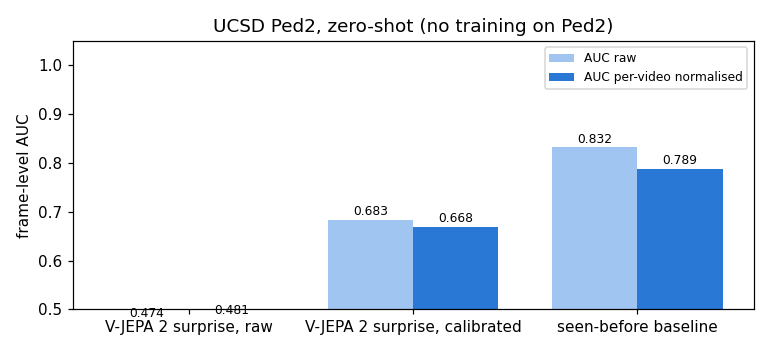
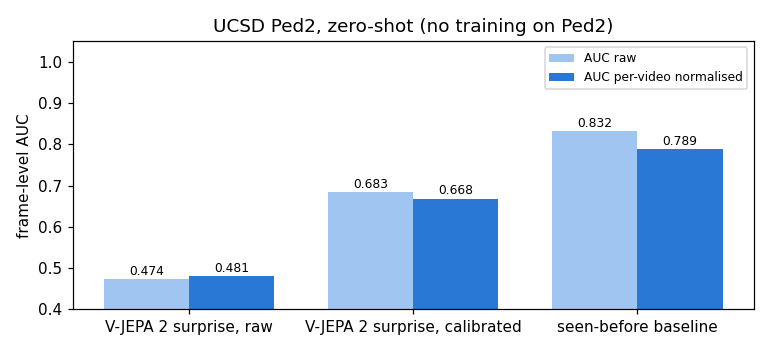
fix: correct experiment 06 figures and claims to match the data

diff --git a/06_vjepa2_video/vjepa2_anomaly.py b/06_vjepa2_video/vjepa2_anomaly.py
@@ -28,6 +28,7 @@
 # ![architecture](https://raw.githubusercontent.com/nunenuh/jepa-playground/main/06_vjepa2_video/assets/architecture-light.svg)
 
 # %%
+import json
 import tarfile
 import time
 import urllib.request
@@ -246,8 +247,10 @@ ax.set_title(f"Test video {name}: score over time")
 plt.tight_layout(); plt.savefig(OUT / "timeline.png", dpi=110); plt.show()
 
 # %%
-picks = [int(np.argmin(np.where(y, np.inf, scores["V-JEPA 2 surprise, calibrated"][name]))),
-         int(np.argmax(np.where(y, scores["V-JEPA 2 surprise, calibrated"][name], -np.inf)))]
+inner = np.zeros(len(y), dtype=bool)
+inner[T:len(y) - T] = True                                    # frames that were really predicted (not edge copies)
+cal = scores["V-JEPA 2 surprise, calibrated"][name]
+picks = [int(np.argmin(np.where(~y & inner, cal, np.inf))), int(np.argmax(np.where(y & inner, cal, -np.inf)))]
 vmax = float(maps["V-JEPA 2 surprise, calibrated"][name][picks].max())
 fig, axes = plt.subplots(1, 2, figsize=(10, 3.6))
 for ax, i, title in zip(axes, picks, ["normal frame", "anomalous frame"]):
@@ -289,17 +292,30 @@ raw_ex = maps["V-JEPA 2 surprise, raw"]["04"][picks[1]]
 cal_ex = maps["V-JEPA 2 surprise, calibrated"]["04"][picks[1]]
 sb_ex  = maps["seen-before baseline"]["04"][picks[1]]
 fig, axes = plt.subplots(1, 4, figsize=(11.5, 3.1))
+auc_top5 = {m: results[m]["AUC raw"] for m in results}
 for ax, m_img, title in [
-    (axes[0], MU.detach().cpu(), "Normal mean surprise μ\n(trees/edges always noisy)"),
-    (axes[1], raw_ex, f"Raw surprise (frame {picks[1]})\nAUC 0.474 (drowned by background)"),
-    (axes[2], cal_ex, f"Calibrated (s − μ)/σ (frame {picks[1]})\nAUC 0.683 (spots the cyclist)"),
-    (axes[3], sb_ex,  f"Seen-before baseline (frame {picks[1]})\nAUC 0.832 (nearest normal patch)"),
+    (axes[0], MU.detach().cpu(), "usual surprise μ on normal video"),
+    (axes[1], raw_ex, f"raw surprise (frame {picks[1]})\ntop-5 AUC {auc_top5['V-JEPA 2 surprise, raw']:.3f}"),
+    (axes[2], cal_ex, f"calibrated (s − μ)/σ (frame {picks[1]})\ntop-5 AUC {auc_top5['V-JEPA 2 surprise, calibrated']:.3f}"),
+    (axes[3], sb_ex,  f"seen-before (frame {picks[1]})\ntop-5 AUC {auc_top5['seen-before baseline']:.3f}"),
 ]:
     ax.imshow(frames[picks[1]])
     heat = F.interpolate(m_img.float()[None, None], size=frames.shape[1:3], mode="bilinear")[0, 0]
     ax.imshow(heat, cmap="inferno", alpha=0.55)
     ax.set_title(title, fontsize=8.5); ax.axis("off")
 plt.tight_layout(); plt.savefig(OUT / "calibration.png", dpi=110); plt.show()
+
+# How often do the raw top-5 patches sit on the positions that are noisiest on *normal* video?
+noisy = set(MU.flatten().topk(20).indices.tolist())           # 20 of 256 positions = 7.8% of the frame
+hits = [len(set(m.flatten().topk(5).indices.tolist()) & noisy) / 5
+        for n in test_videos for m in maps["V-JEPA 2 surprise, raw"][n]]
+cal_hits = [len(set(m.flatten().topk(5).indices.tolist()) & noisy) / 5
+            for n in test_videos for m in maps["V-JEPA 2 surprise, calibrated"][n]]
+noisy_share = {"raw": float(np.mean(hits)), "calibrated": float(np.mean(cal_hits)), "chance": 20 / 256}
+print(f"top-5 patches on the 20 noisiest normal positions: raw {noisy_share['raw']:.0%}, "
+      f"calibrated {noisy_share['calibrated']:.0%} (chance {noisy_share['chance']:.0%})")
+(OUT / "results.json").write_text(json.dumps({"metrics": results, "noisy_position_share": noisy_share,
+                                              "heatmap_frames_video_04": picks}, indent=1))
 
 # %% [markdown]
 # ## Part 2: adapt the predictor to this camera

diff --git a/06_vjepa2_video/README.md b/06_vjepa2_video/README.md
@@ -35,7 +35,7 @@ first **12 frames** (`6 × 16 × 16` latents) and ask it to predict the last
 
 | Part | What it is |
 |---|---|
-| Backbone | `facebook/vjepa2-vitl-fpc64-256` (ViT-L encoder + predictor, frozen, `fp16`) |
+| Backbone | `facebook/vjepa2-vitl-fpc64-256` (ViT-L encoder + predictor, frozen, `fp16`; Part 2 fine-tunes the predictor) |
 | Sliding window | 12 past frames → predict 4 future frames, stride 2 frames |
 | Frame score | Mean of the **top-5 most surprising patches** in the `16 × 16` spatial grid (anomalies cover only a few patches; whole-frame mean washes them out on calibrated maps) |
 | **V-JEPA 2 surprise, raw** | Raw L1 distance between predicted and layer-normed target latents |
@@ -43,7 +43,7 @@ first **12 frames** (`6 × 16 × 16` latents) and ask it to predict the last
 | **Seen-before baseline** | No predictor: cosine distance to the closest normal training latent at the **same spatial position** (588 training tubelets) |
 
 Hardware: Colab Tesla T4 (16 GB VRAM). Memory bank + calibration stats: **78 s**;
-scoring all 12 test videos: **246 s** (~5.5 min total).
+scoring all 12 test videos: **246 s** (~5.5 min for Part 1; Part 2 adds ~10 min).
 
 ## Results
 
@@ -55,33 +55,46 @@ scoring all 12 test videos: **246 s** (~5.5 min total).
 
 ![auc](assets/auc.png)
 
-### Why raw top-5 surprise fails (and calibration fixes it)
+### Why raw top-5 surprise fails (and calibration helps)
 
-At first, taking the top-5 raw surprise patches scored near chance (**0.474 AUC**),
-even though averaging the whole frame gave **0.767 AUC**. Why? In a static camera
-scene, flickering tree leaves and walkway borders are *always* harder to predict
-than flat pavement—so the top-5 patches in every frame were just the trees,
-drowning out the bicycle.
+Taking the top-5 raw surprise patches scored below chance (**0.474 AUC**),
+although averaging the whole frame gave **0.767**. Some positions are hard to
+predict even on normal video (the usual-surprise map μ is highest along the
+grass/hedge strip and some pavement edges), and the top-5 often land there:
+**33%** of the raw top-5 patches fall on the 20 positions (8% of the frame)
+that are noisiest on normal video, 4× more than chance.
 
-Normalising each `16 × 16` cell by its usual surprise `(s − μ) / σ` on normal
-training video silences the background clutter and jumps top-5 AUC from
-**0.474 → 0.683**:
+Normalising each `16 × 16` cell by its usual surprise, `(s − μ) / σ` on
+normal training video, removes that: only **3%** of the calibrated top-5
+patches land there, and top-5 AUC rises from **0.474 → 0.683**. The noisy
+positions explain part of the failure, not all of it: calibrated surprise is
+still far below seen-before.
 
 ![calibration](assets/calibration.png)
 
-### Where V-JEPA 2 is surprised
+Frame 72 of test video `04`, where a cart drives in. Left to right: the
+usual surprise μ, raw surprise, calibrated surprise and the seen-before
+distance. Seen-before marks the cart clearly; calibrated surprise is high
+next to and below it, but also at scattered pavement spots.
 
-On test video `04`, calibrated V-JEPA 2 surprise lights up directly on the
-speeding cyclist while staying dark on normal walking pedestrians:
+### Where V-JEPA 2 is surprised
 
 ![heatmap](assets/heatmap.png)
 
+Calibrated surprise on the least surprising normal frame and the most
+surprising anomalous frame of video `04` (both taken from the middle of the
+video, where every frame was really predicted). On the anomalous frame the
+strongest response is around the cart's lower edge and on the pavement in
+front of it; there are also weaker spots on people walking normally.
+
 ### Score over time
 
-Both calibrated predictor surprise and the seen-before memory bank rise sharply
-when the anomaly enters the frame and drop back down once it leaves:
-
 ![timeline](assets/timeline.png)
+
+Video `04`: the cart enters at frame 31 and stays until the end. Seen-before
+rises as it enters and stays high. Calibrated surprise also rises, then
+swings up and down for the rest of the video: it reacts to the cart's
+motion moment by moment, not to its presence.
 
 ## Part 2: adapt the predictor to this camera
 
@@ -112,16 +125,17 @@ objects*, not *impossible motion*. Raw numbers:
 
 ## What it shows
 
-- **Spatial calibration is essential for world-model surprise on real cameras.**
-  Unlike the synthetic black-background ball in Experiment 03, real video has
-  textured background patches with permanently high prediction error. Taking
-  top-*k* patches without per-position `(μ, σ)` calibration picks background
-  foliage instead of the anomaly (`0.474` → `0.683` AUC).
-- **A fast cyclist is predictable to a general video world model.** V-JEPA 2 was
-  pretrained on internet videos that include bicycles and cars! Once a bike is in
-  motion, V-JEPA 2's predictor actually predicts its next 4 frames reasonably
-  well—whereas in Ped2, a bike is an anomaly *by scene rule* (no bikes on the
-  footpath), not because it violates physics.
+- **Real video needs calibrated surprise.** Unlike the black background of the
+  ball in 03, some spots of a real scene are hard to predict even when nothing
+  happens. A third of the raw top-5 patches land on those spots; calibrating
+  each position against normal video fixes that part (`0.474` → `0.683` AUC).
+- **Ped2's anomalies are unusual objects, not impossible motion.** A bike or a
+  cart moving along the walkway is normal physics; it is an anomaly only by
+  the scene's rule (no vehicles on the footpath). Our explanation for why
+  surprise stays weak: a general video world model has no reason to find
+  that motion unexpected. [Experiment 07](../07_physical_anomalies/) tests it
+  from the other side: on the same camera, surprise catches physically
+  impossible motion almost perfectly.
 - **Therefore, "have I seen this patch here before?" beats pure dynamics surprise
   (`0.832` vs `0.683` top-5 AUC, `0.925` whole-frame AUC).** Just like in
   Experiments 04 and 05, frozen V-JEPA 2 representations + a simple normal
